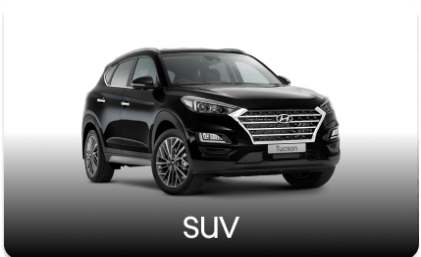
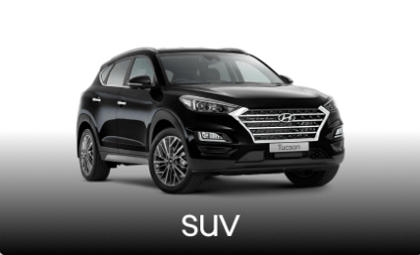
Project completed

diff --git a/index.html b/index.html
@@ -47,7 +47,7 @@
                                         <button class="btn hover:text-white book-now secondary-color px-lg-4 px-md-3 px-sm-2 px-2 py-lg-2 py-md-1 py-sm-1 py-1  text-uppercase small-font rounded-pill" >Book Now</button>
                                     </a>
                                 </li>
-                                <li class="nav-item text-center mx-xl-3 mx-lg-2 mx-md-2">
+                                <li class="nav-item text-center mx-xl-3 mx-lg-2 mx-md-2 d-lg-block d-none">
                                     <a class="nav-link fw-bold fs-5" href="#nav-collapse"><i class="bi bi-text-right text-white fs-3"></i></a>
                                 </li>
                             </ul>
@@ -184,9 +184,9 @@
                     <h1 class="text-uppercase text-center text-white mb-sm-4 mb-2 fw-bold">Our Fleets</h1>
 
                     <div class="fleets-img owl-carousel owl-theme">
-                        <div class="item"><img src="images/sub.png" alt="Car"></div>
-                        <div class="item"><img src="images/sedan.png" class="w-100" alt="Car"></div>
-                        <div class="item"><img src="images/luxary-saden.png" alt="Car"></div>
+                        <div class="item d-flex justify-content-center"><img class="rounded-4" src="images/sub.png" alt="Car"></div>
+                        <div class="item d-flex justify-content-center"><img class="rounded-4" src="images/sedan.png"  alt="Car"></div>
+                        <div class="item d-flex justify-content-center"><img class="rounded-" src="images/luxary-saden.png" alt="Car"></div>
                     </div>
                 </div>
             </div>

diff --git a/css/style.css b/css/style.css
@@ -125,6 +125,11 @@ header.nav-fixed {
     background-color:#0A0E10;
     box-shadow: 5px -1px 12px -5px grey;
 }
+.navbar-toggler:focus{
+    box-shadow: none !important;
+    outline: 0 !important;
+}
+
 /** ====|| Navbar Section End ||==== **/
 
 /** ====|| Banner Section Start ||==== **/
@@ -228,8 +233,8 @@ header.nav-fixed {
     color: #fff;
 }
 
-.owl-item.active:nth-child(2){
-    width: 600px !important;
+.our-fleets .fleets-img img{
+    width: 90%;
 }
 /** ====|| Our Fleets Section End ||==== **/
 
